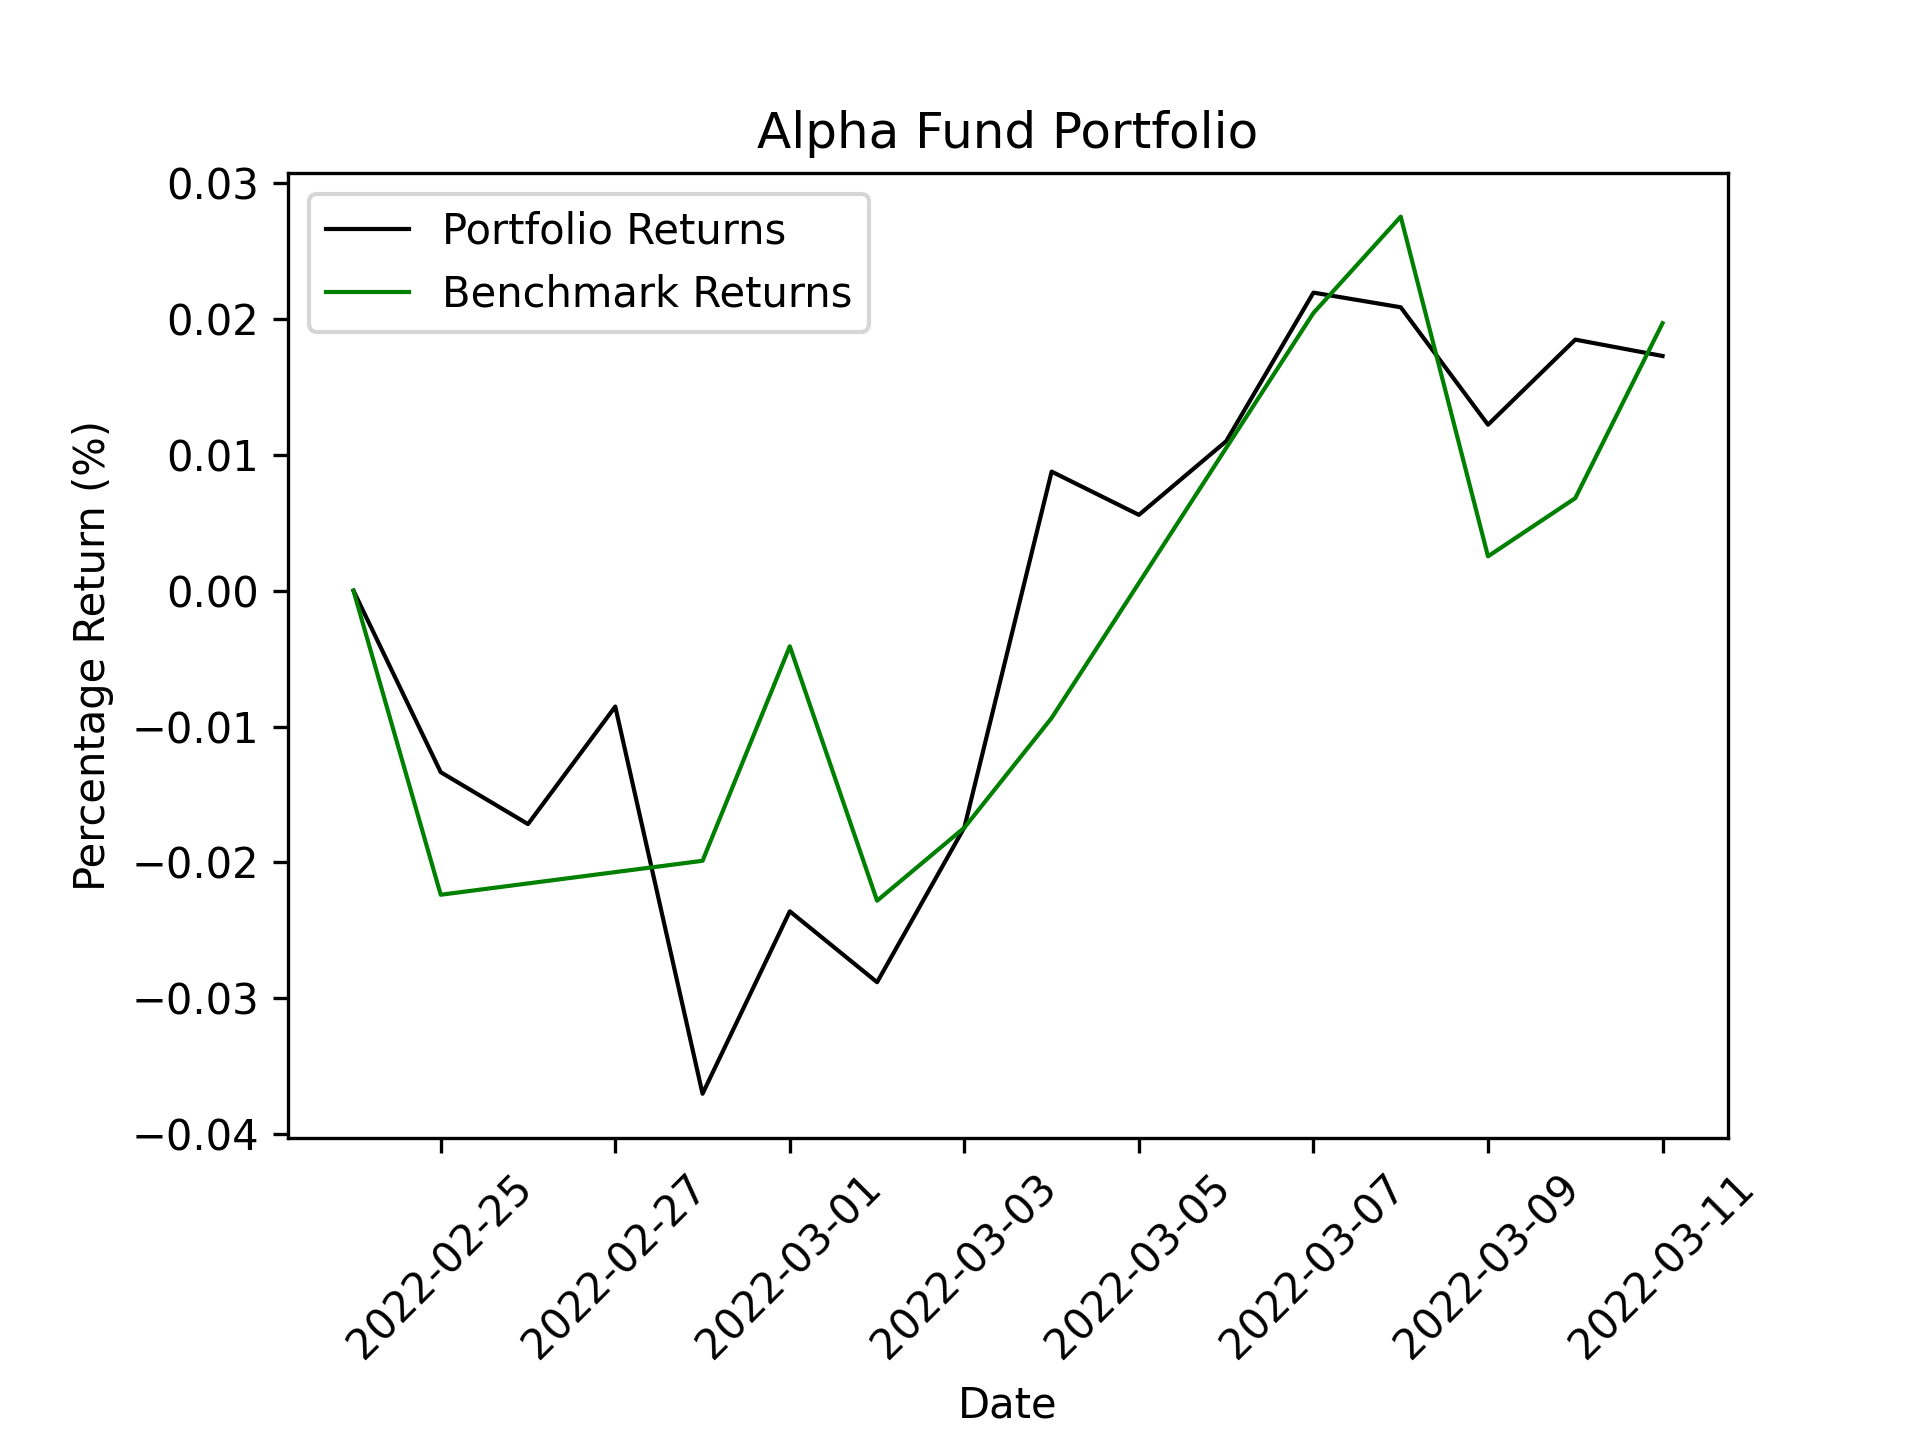
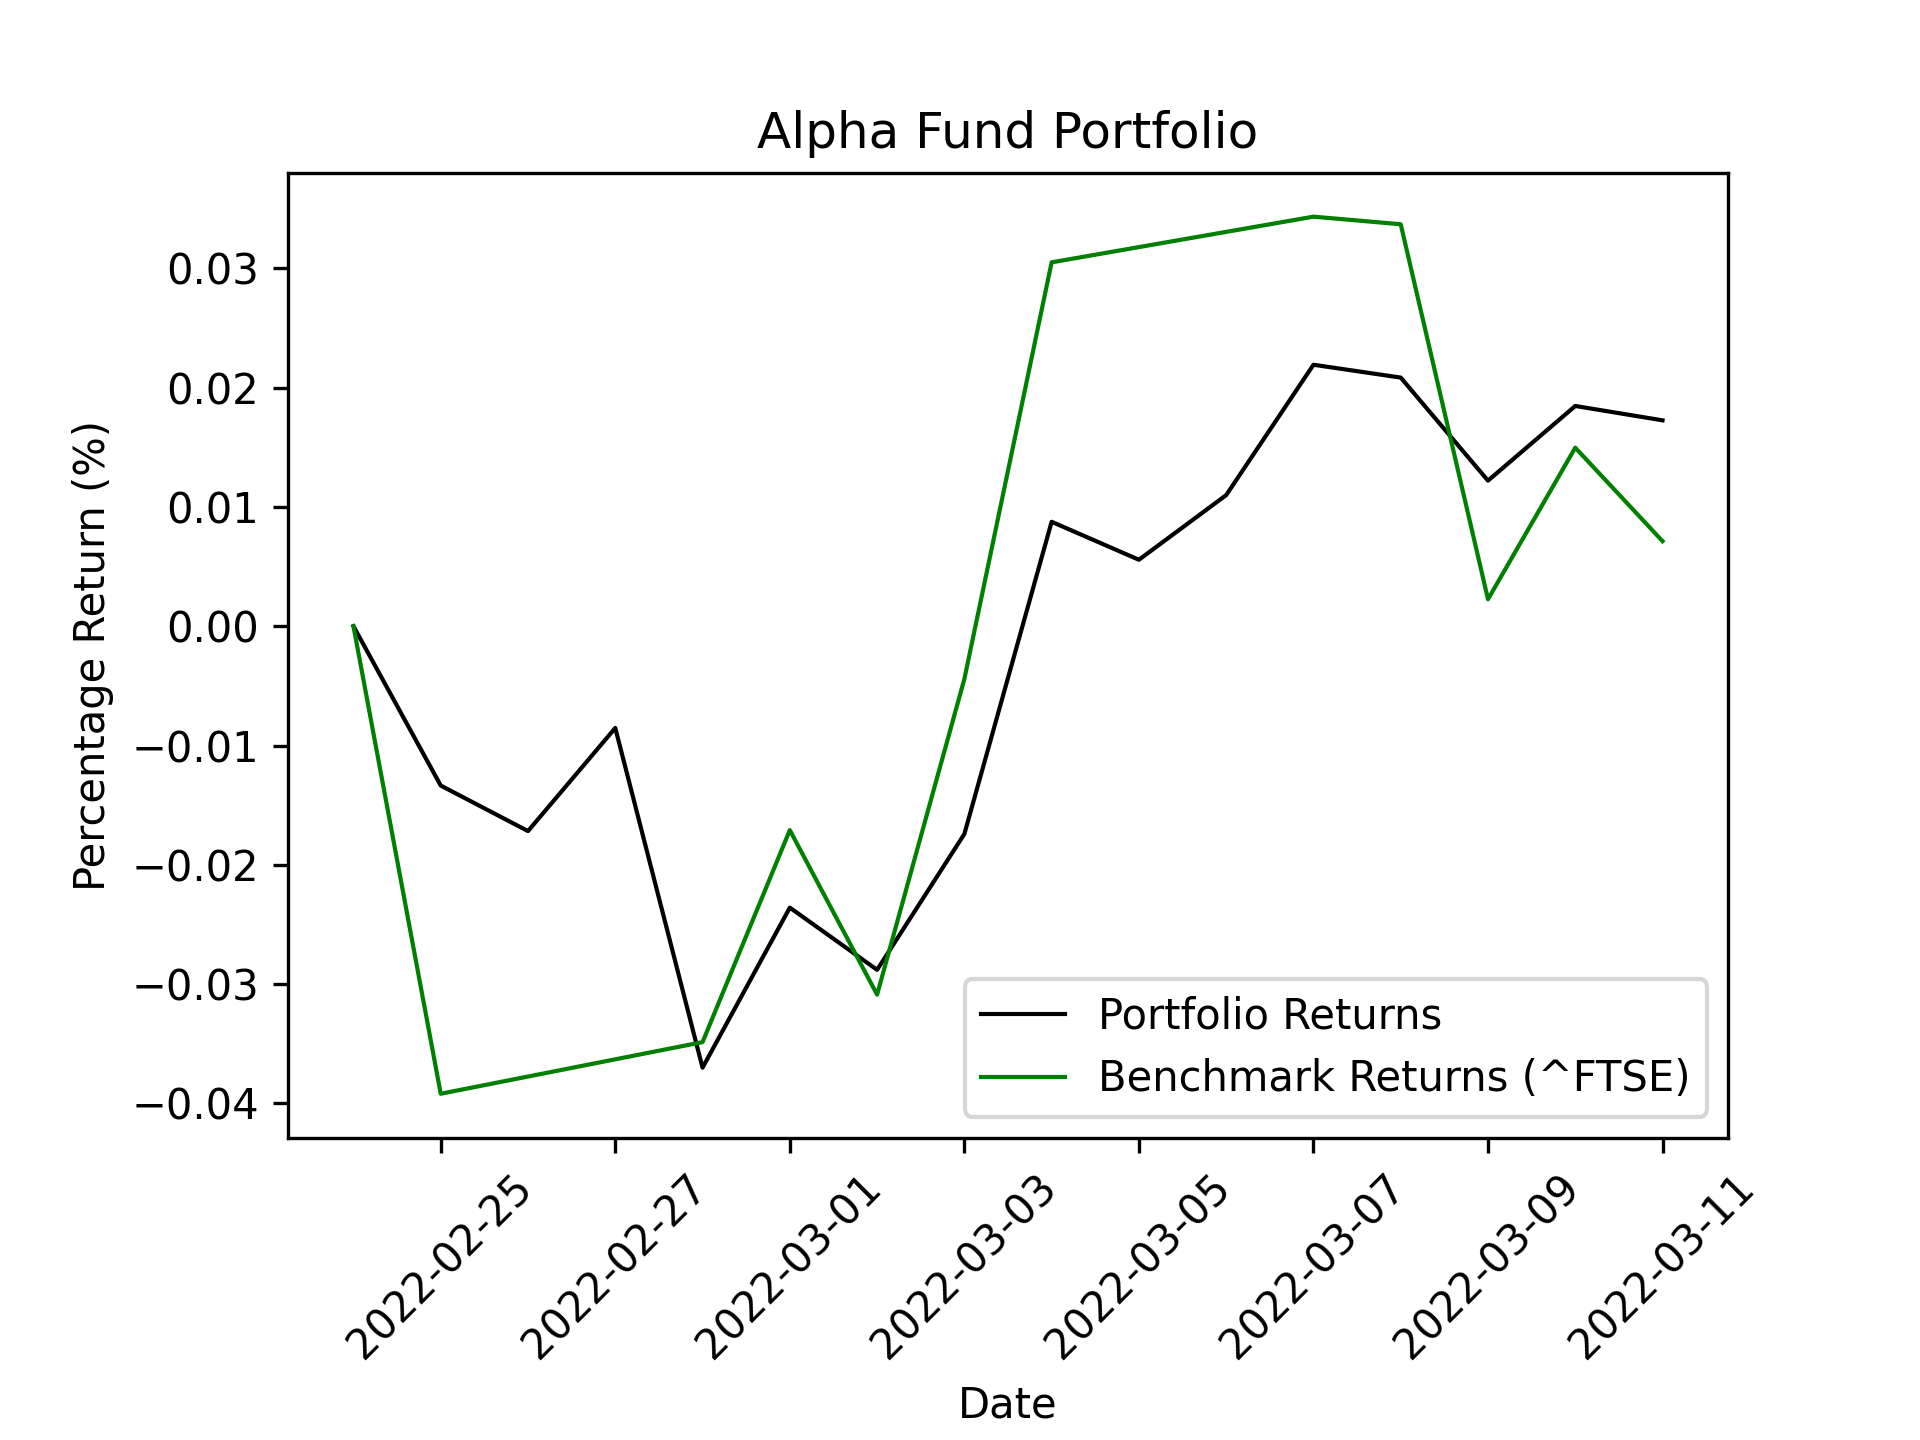
Refactor.

diff --git a/main.py b/main.py
@@ -164,8 +164,11 @@ class Portfolio:
 
         benchmark_pct_return = (asset[0] - asset) / asset[0]
 
-        plt.plot(self.portfolio_valuation().index, portfolio_pct_return, lw=1, color='black', label='Portfolio Returns')
-        plt.plot(benchmark_pct_return.index, benchmark_pct_return, lw=1, color='green', label='Benchmark Returns')
+        plt.plot(self.portfolio_valuation().index, portfolio_pct_return, lw=1, color='black',
+                 label='Portfolio Returns')
+
+        plt.plot(benchmark_pct_return.index, benchmark_pct_return, lw=1, color='green',
+                 label=f'Benchmark Returns ({benchmark})')
 
         plt.legend()
         plt.xticks(rotation=45)
@@ -206,4 +209,4 @@ if __name__ == '__main__':
 
     alpha_fund = Portfolio(initial_cash=initial_cash, assets=assets)
 
-    alpha_fund.graph(benchmark='^GSPC', name='Alpha Fund Portfolio')
+    alpha_fund.graph(benchmark='^FTSE', name='Alpha Fund Portfolio')
